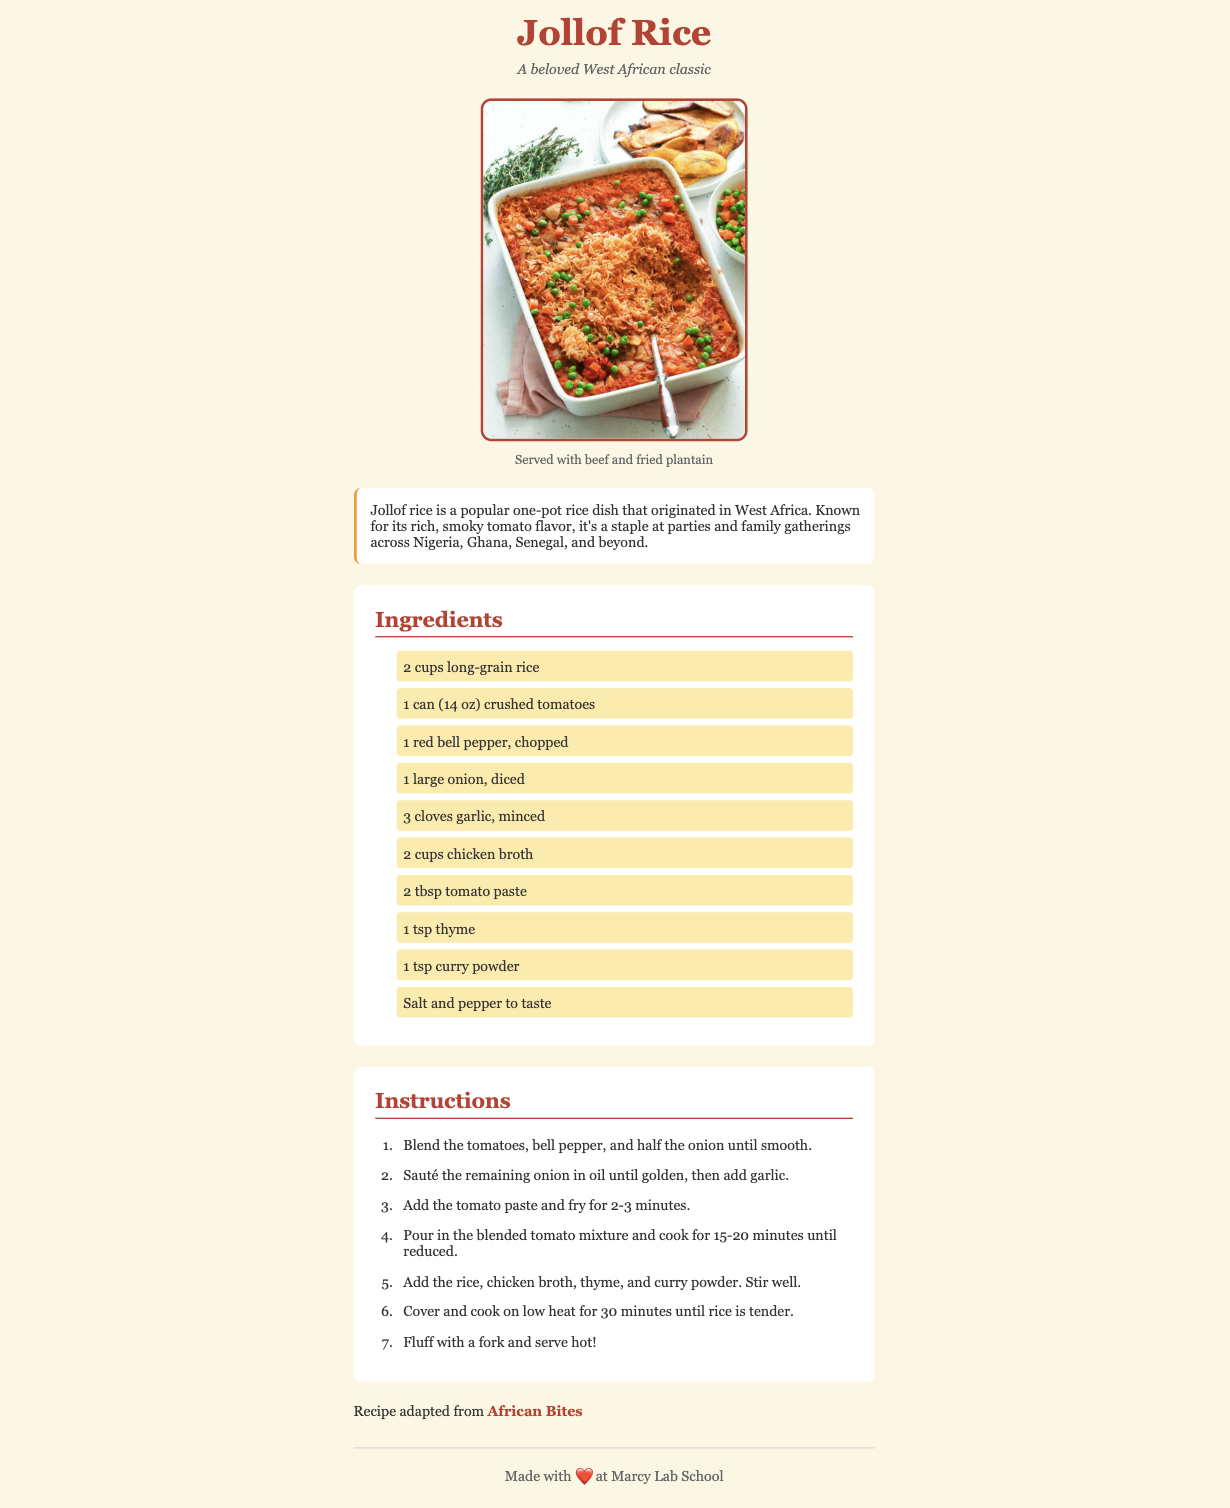
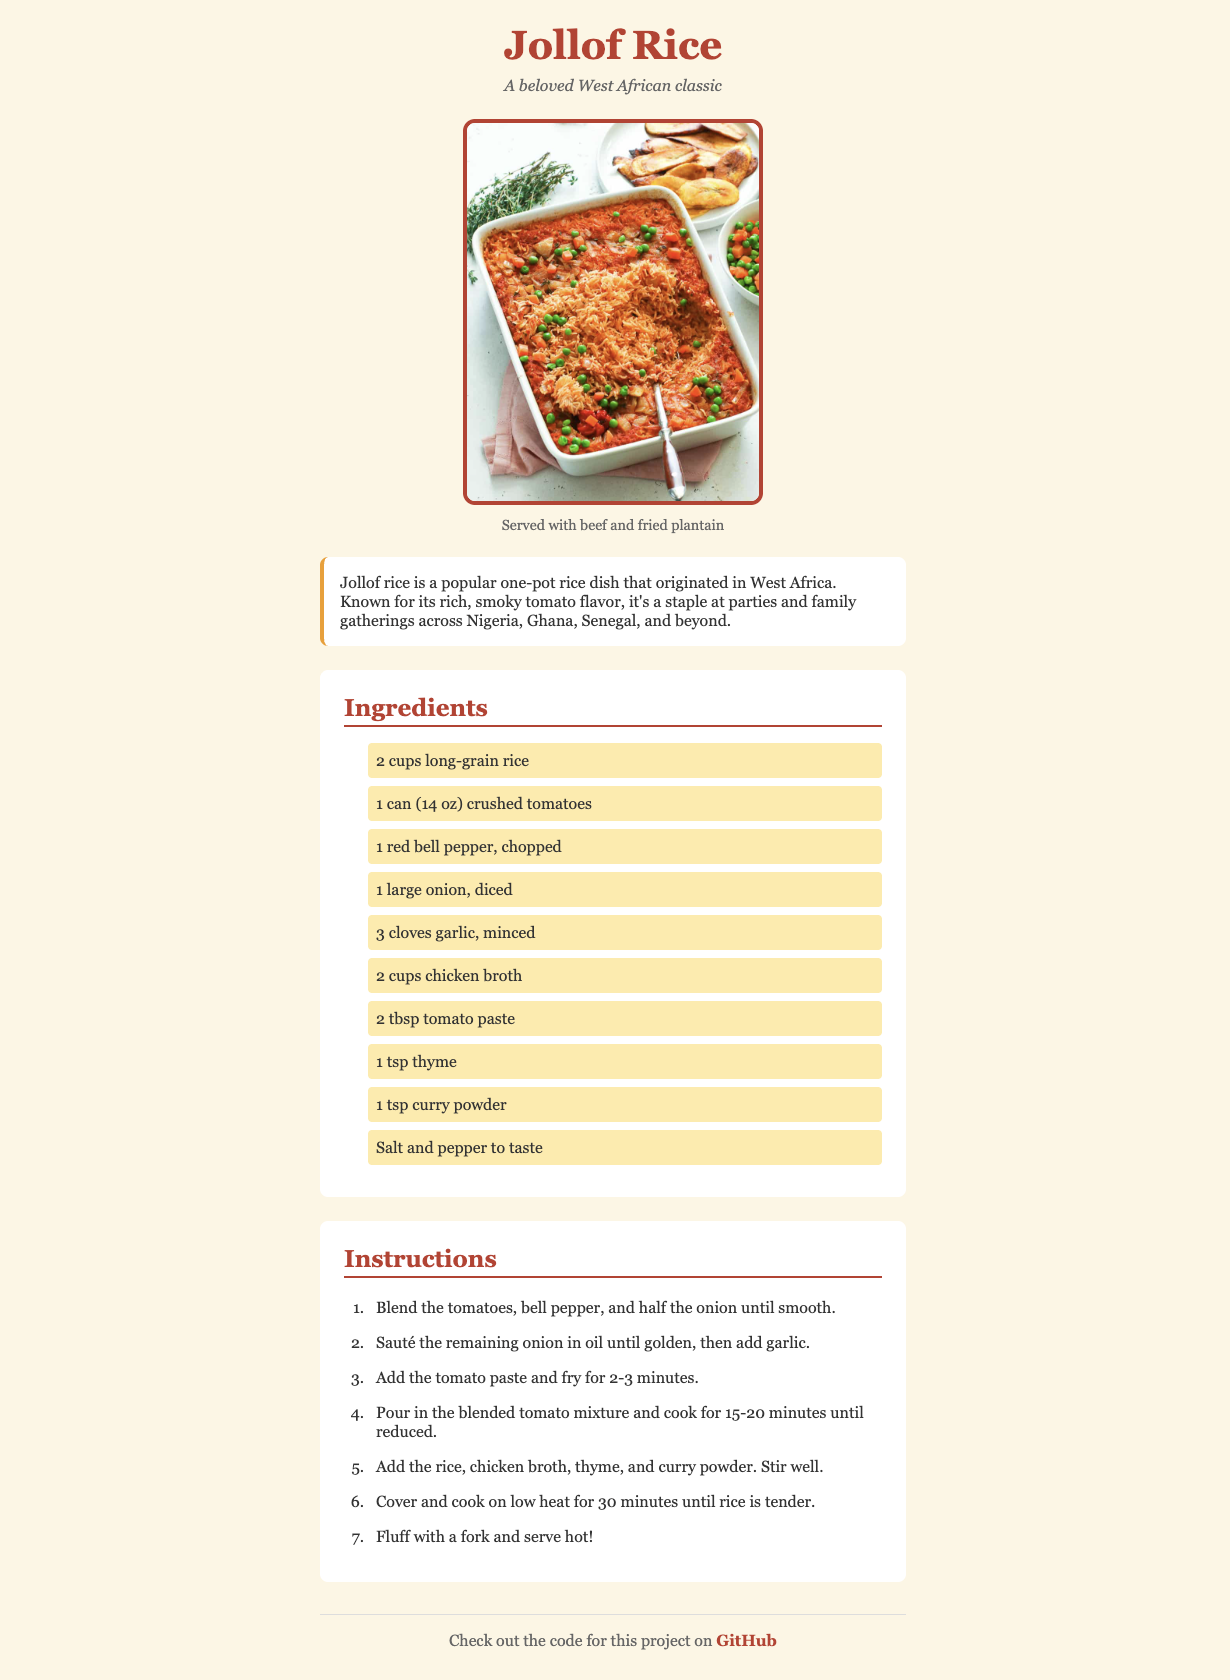
updating instructions for clarity

Changed region(s): [[0.2472, 0.0, 0.7415, 0.9973]]

diff --git a/src/index.html b/src/index.html
@@ -17,7 +17,8 @@
     </main>
 
     <footer>
-      <p>Made with ❤ at Marcy Lab School</p>
+      <!-- Update this with a link to your GitHub repo for this project -->
+      <p>Check out the code for this project on GitHub</p>
     </footer>
   </body>
 </html>

diff --git a/README.md b/README.md
@@ -84,7 +84,9 @@ If you ever forget a CSS property, check out the [cheat sheet](#css-cheatsheet) 
 
 ### Example
 
-Below is an example of what your recipe card might look like. **Your recipe and styling should be unique!**
+Below is an example of what your recipe card should look like. **Your goal is to replicate this design** — the layout, spacing, typography styles, and overall structure should match the example. 
+
+The one exception: **choose your own color theme** based on your recipe! Pick colors that complement your dish.
 
 ![Example Recipe Card](./images/example-recipe-card.png)
 
@@ -95,12 +97,13 @@ Below is an example of what your recipe card might look like. **Your recipe and 
 Build out the HTML content inside `<main>`. Your recipe card should include:
 
 - [ ] A `<figure>` containing an `<img>` and `<figcaption>` for the recipe photo
+  - Add `id="recipe-image"` to the `<img>` element
 - [ ] A `<p>` element with a short description of the dish
+  - Add `class="description"` to this paragraph
 - [ ] A `<section>` with an `<h2>` and an unordered list (`<ul>`) of at least 5 ingredients
+  - Add `class="ingredient"` to each `<li>` in this list
 - [ ] A `<section>` with an `<h2>` and an ordered list (`<ol>`) of at least 4 instructions
-- [ ] An `<a>` element linking to the original recipe source
-- [ ] At least 2 different `class` attributes used on your elements
-- [ ] At least 1 `id` attribute used on an element
+- [ ] In the footer, wrap the text "GitHub" with an `<a>` element linking to your GitHub repo for this project
 
 **Tips:**
 - Find a recipe image by searching Google Images, right-click, and select "Copy Image Address"
@@ -110,47 +113,70 @@ Build out the HTML content inside `<main>`. Your recipe card should include:
 
 ### Phase 2: Colors & Typography (Tuesday)
 
-Add styles to `index.css` to make your recipe card visually appealing:
-
+Add styles to `index.css`. For colors, **choose your own color theme** that matches your recipe. For everything else, replicate the example.
 - [ ] Link the `index.css` file to your `index.html`
-- [ ] Set a `background-color` on the body
-- [ ] Set a text `color` on the body
-- [ ] Set a `font-family` on the body (with a fallback like `sans-serif`)
-- [ ] Style the headings (`h1`, `h2`) with `color` and `font-size`
-- [ ] Style links with a `color`
-- [ ] Use at least one class selector (`.classname`) to style a group of elements
-- [ ] Use at least one ID selector (`#idname`) to style a specific element
 
-**Tips to try:**
-- Use `text-align: center` on the `header` to center your title
-- Remove the default underline on links with `text-decoration: none`
-- Make links stand out with `font-weight: bold`
-- Use `font-style: italic` on a tagline or caption for emphasis
-- Try named colors like `midnightblue`, `coral`, `darkgreen`, or browse [this color list](https://www.w3schools.com/cssref/css_colors.php)
+**Choose Your Colors:**
+- [ ] Pick a **page background color** and **main text color** for the body
+- [ ] Pick a **heading color** for `h1` and `h2`
+- [ ] Pick a **link color** for `a` elements
+- [ ] Pick a **highlight color** for your ingredient list items (`.ingredient`)
+
+Browse [this color list](https://www.w3schools.com/cssref/css_colors.php) for ideas, or search "color palette" + your recipe name for inspiration!
+
+**Match the Example Typography:**
+- [ ] Set a `font-family` on the body with a fallback (e.g., `Georgia, serif`)
+- [ ] Center the header text with `text-align: center`
+- [ ] Make the image caption italic with `font-style: italic`
+- [ ] Remove link underlines with `text-decoration: none`
+- [ ] Make links bold with `font-weight: bold`
 
 ---
 
 ### Phase 3: Box Model & Layout (Wednesday)
 
-Apply spacing and layout to complete your recipe card:
+Apply spacing and layout to match the example design. If no property value is specified, it will be up to you to decide the property value!
 
-- [ ] Center the recipe card using `max-width` and `margin: auto` on the body
-- [ ] Add `padding` to the body
-- [ ] Add `margin` to create space between elements (headings, sections, etc.)
-- [ ] Add `padding` to at least one element to create space inside it
-- [ ] Add a `border` to at least one element
-- [ ] Use `border-radius` to round corners on at least one element
-- [ ] Add a `:hover` style to your links
+**Page Layout:**
+- [ ] Center the recipe card: set a `max-width` and `margin: auto` on the body
+- [ ] Add `padding` to the body for breathing room on the edges
 
-**Tips to try:**
-- Use `border-bottom` on `h2` elements to create an underline effect (add `padding-bottom` too for spacing)
-- Use `border-left` on the description paragraph for an accent line effect
-- Give sections a light `background-color` to make them stand out from the page
-- Center your image by putting `text-align: center` on the `figure`
-- Control image size by setting `width: 100%` on the image, then use `max-width` on the `figure`
-- Remove bullet points from your ingredients list with `list-style: none` on the `ul`
-- On `:hover`, try adding a `background-color` to links (you may want to add a little `padding` so the background has room to show)
-- Add a `border-top` to the footer to create a visual separator
+**Spacing Between Elements:**
+- [ ] Add `margin-bottom` to the `header`, `h1`, `h2`, `figure`, and `section` elements
+- [ ] Add `margin-top` to the `footer`
+
+**Image Styling:**
+- [ ] Center the image by setting `text-align: center` on the `figure`
+- [ ] Control the image size with `max-width` on the `figure` (try `300px`)
+- [ ] Style the image using its `id` attribute with `width: 100%` so it fills its container
+- [ ] Add a `border` around the image
+- [ ] Round the image corners with `border-radius`
+
+**Section Styling:**
+- [ ] Give sections a `background-color` (try white or a light color) to create contrast with the body.
+- [ ] Add `padding` inside the sections
+- [ ] Round section corners with `border-radius`
+
+**Heading Accent:**
+- [ ] Add a `border-bottom` to `h2` elements for an underline effect
+- [ ] Add `padding-bottom` to create space between the text and the underline
+
+**Description Accent:**
+- [ ] Add a `border-left` to the description paragraph for an accent line
+- [ ] Add `padding` to the description
+- [ ] Round the corners with `border-radius`
+
+**Ingredient List:**
+- [ ] Remove bullet points with `list-style: none` on the `ul`
+- [ ] Style the ingredient list items with `padding`, `margin-bottom`, and `border-radius`
+
+**Footer:**
+- [ ] Add a `border-top` to visually separate the footer
+- [ ] Center the footer text
+
+**Link Hover Effect:**
+- [ ] Add an `a:hover` rule that changes the `background-color` when hovering
+- [ ] Add a little `padding` and `border-radius` to links so the hover background looks nice
 
 ---
 
